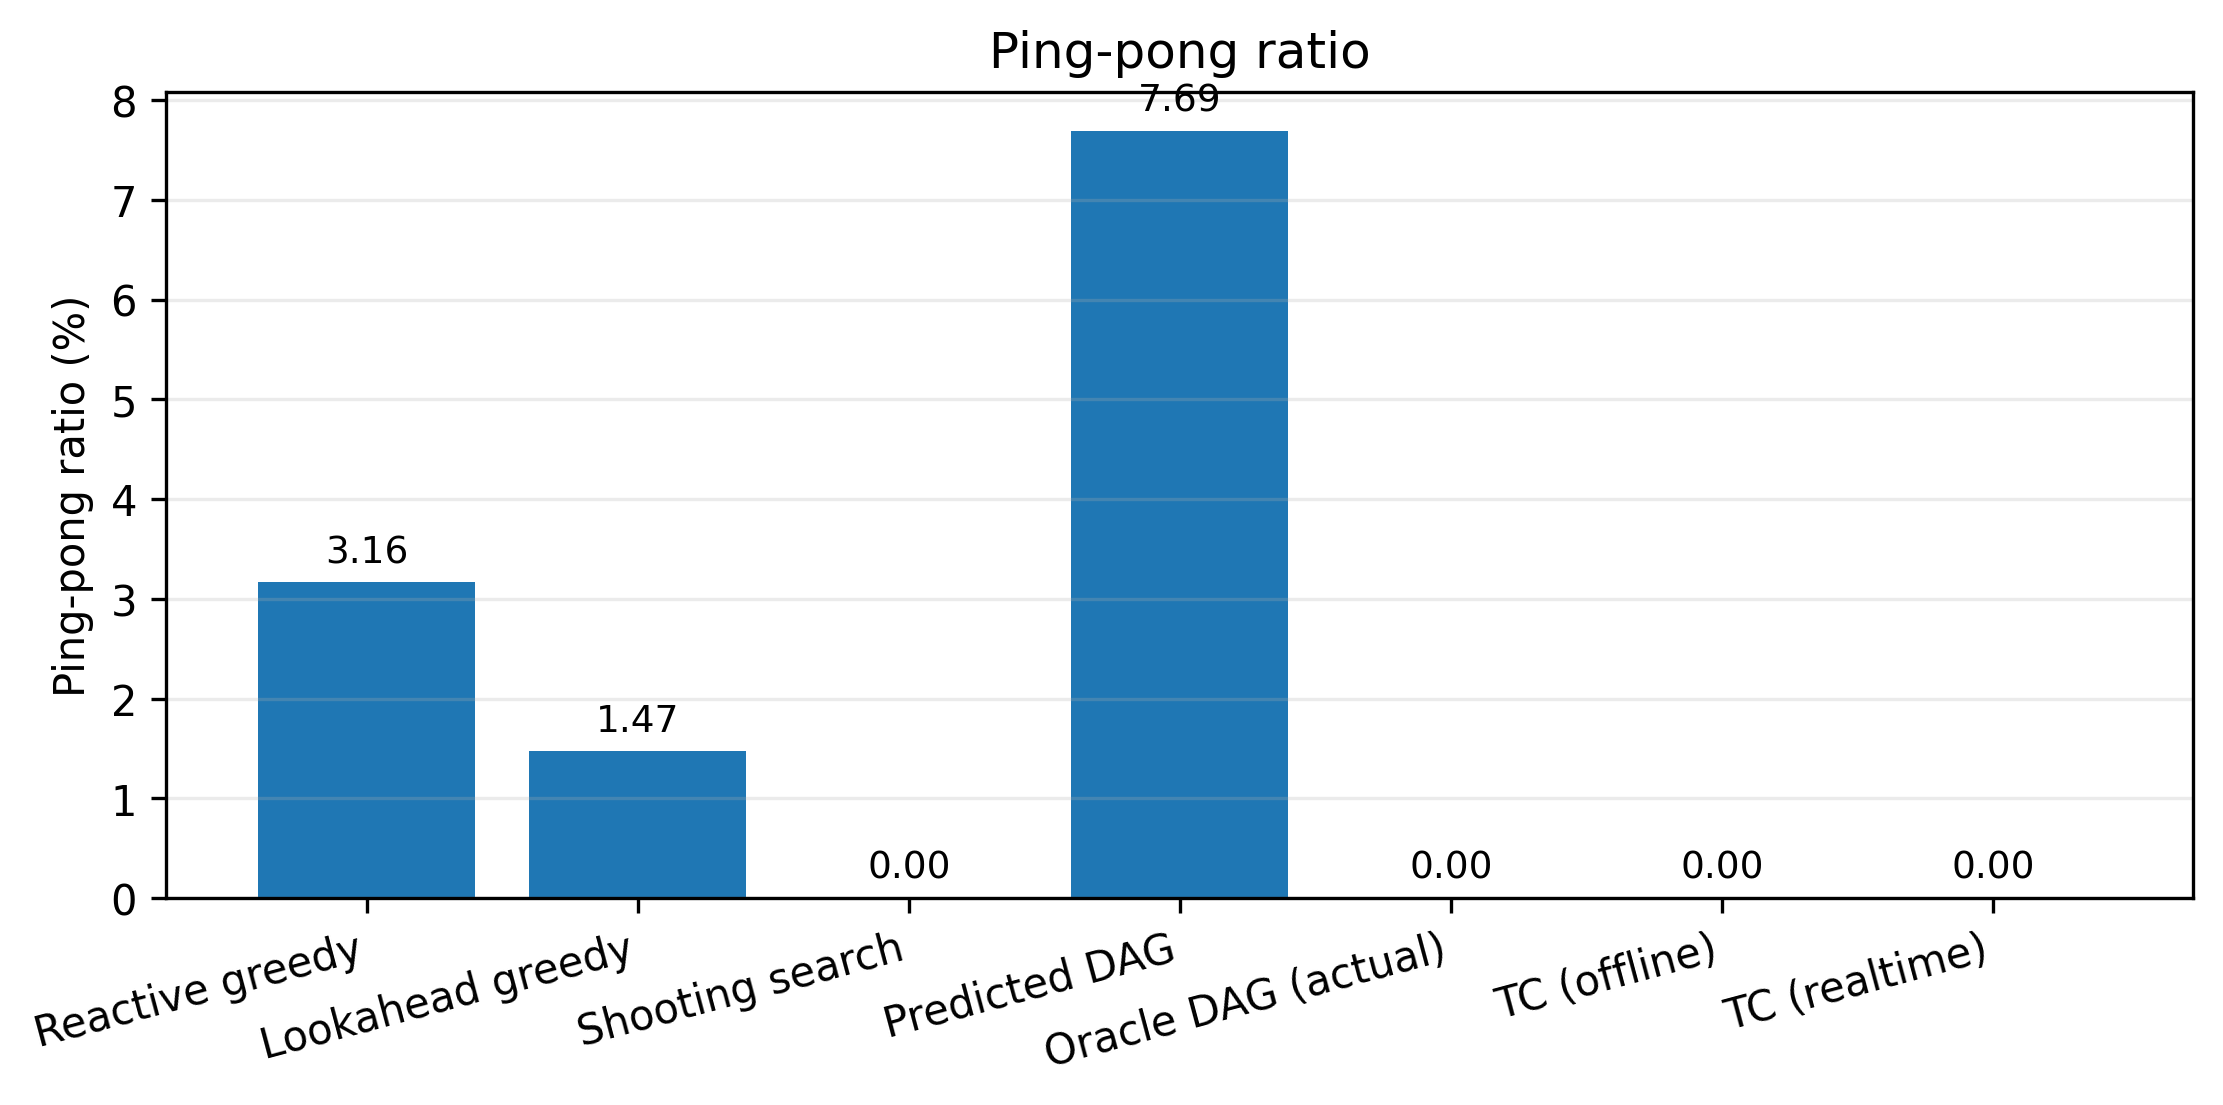
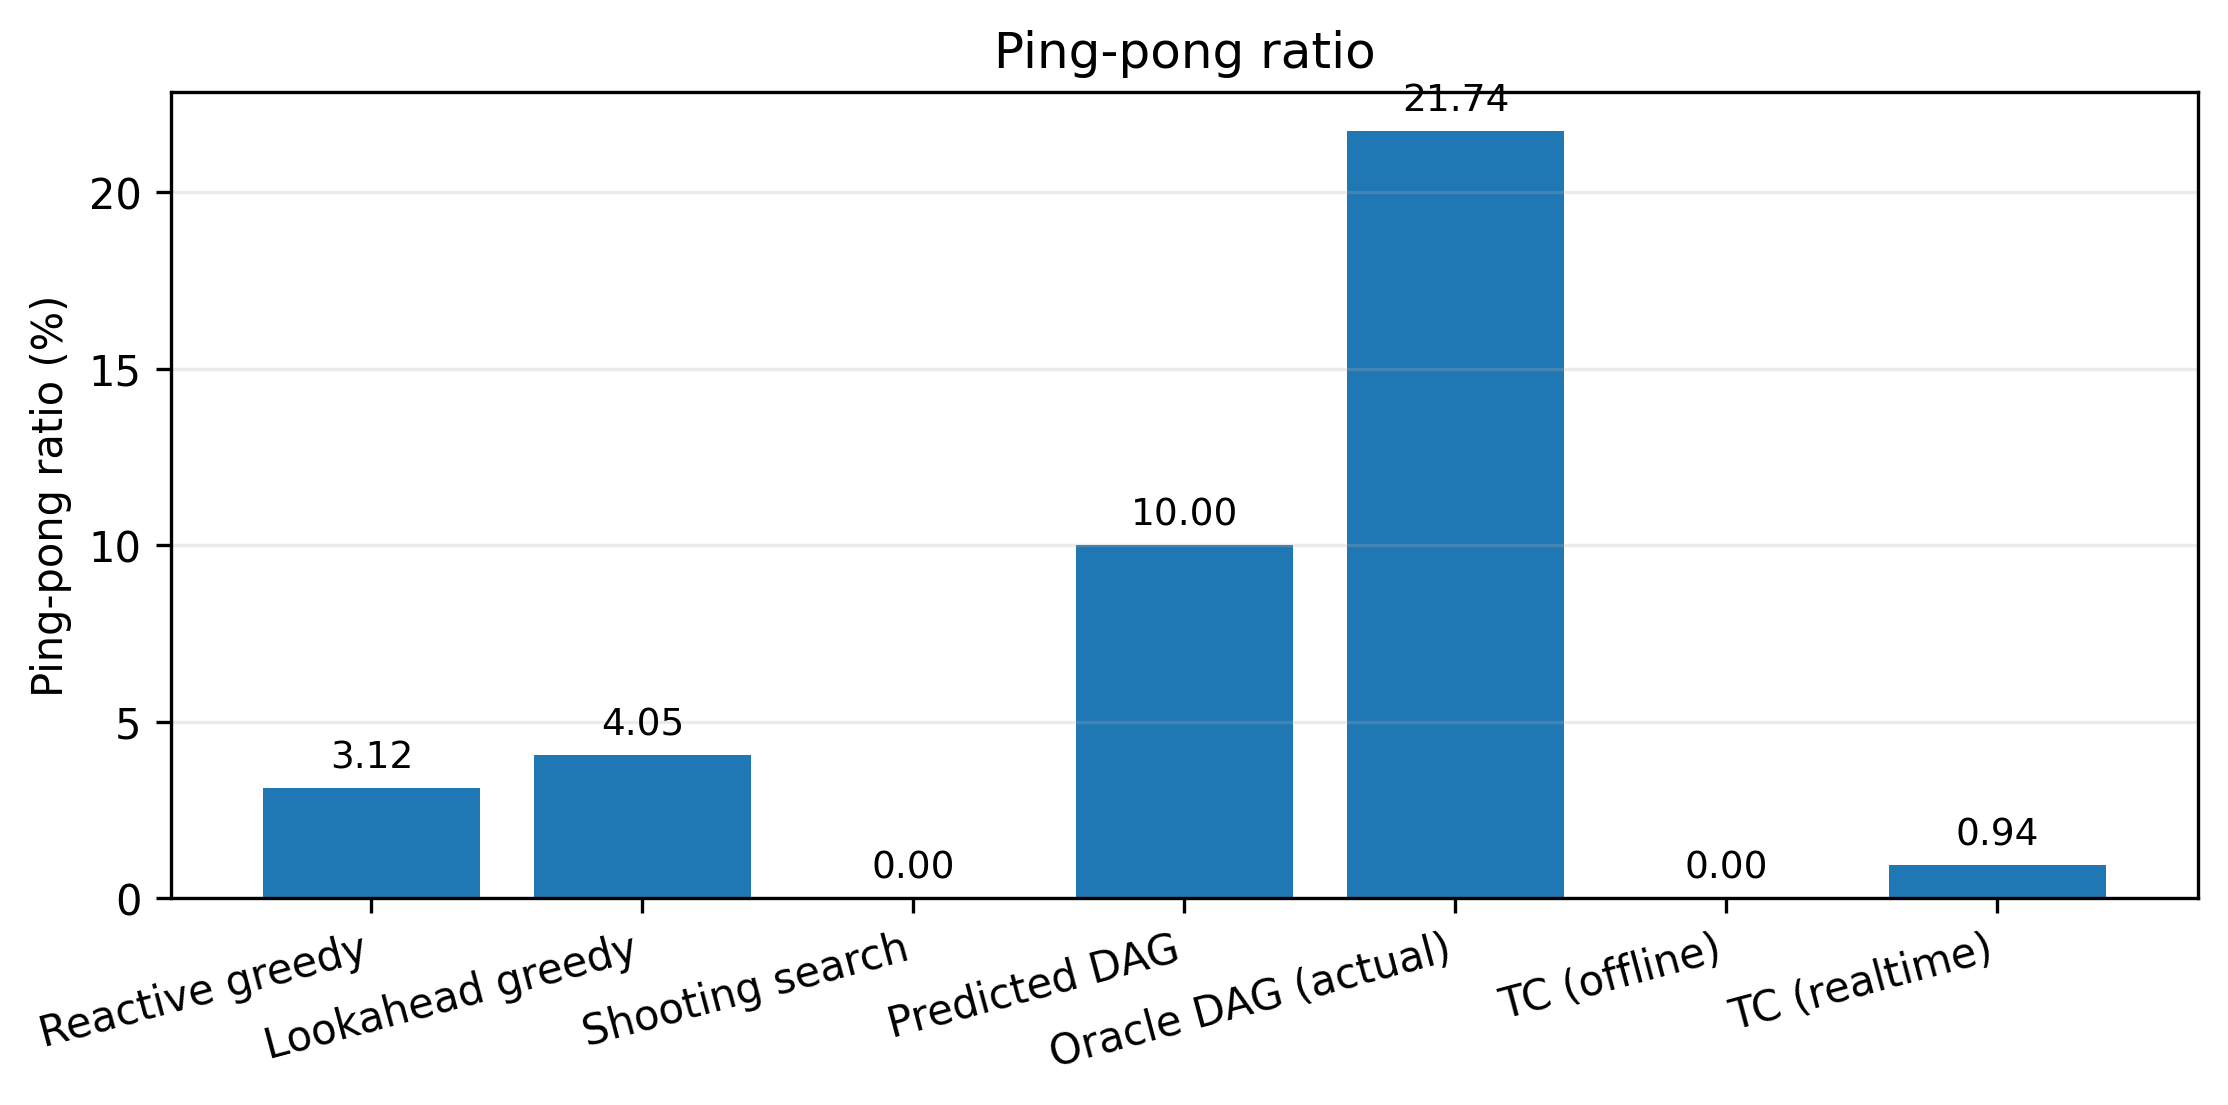
H감소

diff --git a/paper_pkg/tc_train_eval.py b/paper_pkg/tc_train_eval.py
@@ -94,7 +94,7 @@ class TrainEvalRealtimeConfig:
     alpha_oracle_loss: float = 0.3
     beta_pred_action_loss: float = 1.0
     rollout_steps: int = 1
-    rollout_loss_weight: float = 0.0
+    rollout_loss_weight: float = 0.2
     train_use_history_augmentation: bool = True
     train_aug_flip_prob: float = 0.02
     train_aug_dropout_prob: float = 0.06
@@ -598,39 +598,139 @@ def _soft_expected_action_loss(y_curr: torch.Tensor, future_A_true: np.ndarray, 
 
 def _mini_rollout_penalty(transformer, online_consistency, A_in: np.ndarray, A_target: np.ndarray, U_target: np.ndarray,
                           t_start: int, current_node: int, prev_node: int, cfg_te: TrainEvalRealtimeConfig, device: torch.device) -> torch.Tensor:
+    """
+    RT-corrected plan과 semantics를 맞춘 rollout 시뮬레이터.
+    - pending 예약 → 도래 시 실행 (rt_enable_pending)
+    - reliability EMA (RT 플래너와 동일한 공식)로 가중된 fallback 점수
+    - dwell + hysteresis + ping-pong extra hysteresis guardrail
+    - 현재 연결 실패 시 pending 조기 실행 → 없으면 reliability-aware greedy fallback
+    gradient는 y_curr → _soft_expected_action_loss 경로로만 흐름; 상태전이는 numpy/int.
+    """
     L, H = cfg_te.L, cfg_te.H
     K = max(1, int(getattr(cfg_te, 'rollout_steps', 4)))
+    N = A_target.shape[1]
+    use_pending   = bool(getattr(cfg_te, 'rt_enable_pending', True))
+    min_dwell     = int(getattr(cfg_te, 'rt_min_dwell', 3))
+    hyst_ratio    = float(getattr(cfg_te, 'rt_hysteresis_ratio', 0.08))
+    pp_window     = int(getattr(cfg_te, 'rt_pingpong_window', 4))
+    pp_extra_hyst = float(getattr(cfg_te, 'rt_pingpong_extra_hysteresis_ratio', 0.04))
+    rel_alpha     = float(getattr(cfg_te, 'rt_reliability_alpha', 0.90))
+    rel_fp_pen    = float(getattr(cfg_te, 'rt_fp_extra_penalty', 0.90))
+
     total = torch.tensor(0.0, device=device)
-    sim_current = int(current_node)
-    sim_prev = int(prev_node)
+    sim_current      = int(current_node)
+    sim_prev         = int(prev_node)      # t-1 노드 (ping-pong 감지용)
+    sim_prev2        = -1                  # t-2 노드 (ping-pong 감지용)
+    sim_last_switch  = -10**9
+    sim_pend_node    = -1
+    sim_pend_exec_t  = -1
+
+    # reliability 초기값: 1.0 (RT 플래너와 동일)
+    sim_reliability = np.ones(N, dtype=np.float32)
+
+    def _rel_score(t_: int, n_: int) -> float:
+        return float(U_target[t_, n_] * sim_reliability[n_])
+
     sim_hist = np.array(A_in[max(0, t_start - L):t_start, :], copy=True)
     if sim_hist.shape[0] < L:
-        pad = np.zeros((L - sim_hist.shape[0], A_in.shape[1]), dtype=np.float32)
+        pad = np.zeros((L - sim_hist.shape[0], N), dtype=np.float32)
         sim_hist = np.vstack([pad, sim_hist])
+
     for offs in range(K):
         t = t_start + offs
         if t >= A_target.shape[0] - H:
             break
+
         hist = _augment_history_matrix(sim_hist, SimpleNamespace(phase=getattr(SimpleNamespace(), 'phase', None)), t, cfg_te)
         state_tensor = torch.tensor(hist, dtype=torch.float32, device=device).unsqueeze(0)
         future_pred = transformer(state_tensor)
-        avail_flat = future_pred.view(1, -1).detach()
+        avail_flat  = future_pred.view(1, -1).detach()
         u_slice = U_target[t:t+H, :] if t + H <= U_target.shape[0] else np.pad(
             U_target[t:, :], ((0, t + H - U_target.shape[0]), (0, 0))
         )
-        condition = _build_consistency_condition(
-            avail_flat, u_slice, sim_current, sim_prev, A_target.shape[1], device
-        )
+        condition = _build_consistency_condition(avail_flat, u_slice, sim_current, sim_prev, N, device)
         y_noisy = torch.randn(1, 2, device=device)
-        y_curr = online_consistency(y_noisy, condition, torch.tensor([[1.0]], device=device))
-        total = total + _soft_expected_action_loss(y_curr, A_target[t:t+H, :], U_target[t:t+H, :], sim_current, sim_prev, cfg_te)
+        y_curr  = online_consistency(y_noisy, condition, torch.tensor([[1.0]], device=device))
+        total   = total + _soft_expected_action_loss(y_curr, A_target[t:t+H, :], U_target[t:t+H, :], sim_current, sim_prev, cfg_te)
+
         pred_i = int(torch.clamp((y_curr[0, 0] * (H - 1)).round(), 0, H - 1).item())
-        pred_n = int(torch.clamp((y_curr[0, 1] * (A_target.shape[1] - 1)).round(), 0, A_target.shape[1] - 1).item())
-        if pred_i <= int(getattr(cfg_te, 'rt_switch_time_offset_max', 1)) and A_target[t, pred_n] == 1:
-            sim_prev, sim_current = sim_current, pred_n
+        pred_n = int(torch.clamp((y_curr[0, 1] * (N - 1)).round(), 0, N - 1).item())
+
+        # ---- 상태 전이: RT-corrected 플래너 semantics ----
+        if use_pending:
+            # (1) pending 갱신: 더 이른 예약이면 교체
+            new_exec_t = t + pred_i
+            if sim_pend_exec_t == -1 or new_exec_t <= sim_pend_exec_t:
+                sim_pend_node   = pred_n
+                sim_pend_exec_t = new_exec_t
+
+            # (2) pending 도래 시 실행 (reliability-aware fallback 포함)
+            candidate = sim_current
+            if sim_pend_exec_t != -1 and t >= sim_pend_exec_t:
+                pn = sim_pend_node
+                sim_pend_node   = -1
+                sim_pend_exec_t = -1
+                if 0 <= pn < N and A_target[t, pn] == 1:
+                    candidate = pn
+                else:
+                    avail_now = np.where(A_target[t] == 1)[0]
+                    if len(avail_now) > 0:
+                        candidate = int(avail_now[np.argmax(
+                            U_target[t, avail_now] * sim_reliability[avail_now]
+                        )])
+        else:
+            k = int(getattr(cfg_te, 'rt_switch_time_offset_max', 1))
+            candidate = pred_n if (pred_i <= k and 0 <= pred_n < N and A_target[t, pred_n] == 1) else sim_current
+
+        # (3) dwell + hysteresis + ping-pong extra hysteresis guardrail
+        cur_valid = (sim_current != -1 and 0 <= sim_current < N and A_target[t, sim_current] == 1)
+        if candidate != sim_current and candidate != -1 and 0 <= candidate < N and A_target[t, candidate] == 1:
+            if (t - sim_last_switch) >= min_dwell:
+                s_cur = _rel_score(t, sim_current) if cur_valid else -1e9
+                s_new = _rel_score(t, candidate)
+                required = hyst_ratio
+                # ping-pong(A->B->A) 감지: candidate가 t-2 노드이고 최근 스위치 직후면 추가 hysteresis
+                is_pp = (
+                    candidate == sim_prev2
+                    and sim_prev2 != -1
+                    and sim_prev == sim_current
+                    and (t - sim_last_switch) <= pp_window
+                )
+                if is_pp:
+                    required += pp_extra_hyst
+                if not cur_valid or s_new >= s_cur * (1.0 + required):
+                    sim_prev2       = sim_prev
+                    sim_prev        = sim_current
+                    sim_current     = candidate
+                    sim_last_switch = t
+
+        # (4) 현재 연결 실패 처리
         if sim_current != -1 and A_target[t, sim_current] == 0:
-            sim_prev, sim_current = sim_current, -1
+            if use_pending and sim_pend_exec_t != -1 and 0 <= sim_pend_node < N and A_target[t, sim_pend_node] == 1:
+                sim_prev2       = sim_prev
+                sim_prev        = sim_current
+                sim_current     = sim_pend_node
+                sim_pend_node   = -1
+                sim_pend_exec_t = -1
+                sim_last_switch = t
+            else:
+                # reliability-aware greedy fallback
+                avail_now = np.where(A_target[t] == 1)[0]
+                sim_prev2   = sim_prev
+                sim_prev    = sim_current
+                sim_current = int(avail_now[np.argmax(U_target[t, avail_now] * sim_reliability[avail_now])]) if len(avail_now) > 0 else -1
+                sim_last_switch = t
+
+        # (5) reliability EMA 업데이트 (RT 플래너와 동일한 공식)
+        # rollout은 A_target을 "미래 정답"으로 쓰므로 predicted와 actual 모두 A_target으로 근사
+        match = np.ones(N, dtype=np.float32)   # A_target 기준 self-consistent → match=1 기본
+        fp_mask = (A_in[t] == 1) & (A_target[t] == 0) if t < A_in.shape[0] else np.zeros(N, dtype=bool)
+        sim_reliability = rel_alpha * sim_reliability + (1.0 - rel_alpha) * match
+        sim_reliability[fp_mask] *= rel_fp_pen
+        sim_reliability = np.clip(sim_reliability, 0.05, 1.0)
+
         sim_hist = np.vstack([sim_hist[1:], A_in[t:t+1, :]])
+
     return total / float(K)
 
 

diff --git a/paper_pkg/eval.py b/paper_pkg/eval.py
@@ -61,6 +61,9 @@ def load_models(weights: str, exp_cfg: ExperimentConfig, outdir: Path):
     cfg_te.exp_cfg = exp_cfg
     cfg_te.results_dir = str(outdir)
     cfg_te.weight_path = weights
+    # L, H를 cfg_te에도 반영해야 plan builder들이 올바른 H로 condition 벡터를 만든다
+    cfg_te.L = L
+    cfg_te.H = H
     transformer = tc.OnlineTransformerPredictor(num_nodes=N, L=L, H=H).to(device)
     consistency = tc.OnlineConsistencyGenerator(num_nodes=N, H=H).to(device)
     transformer.load_state_dict(ckpt["transformer_state_dict"])
@@ -79,6 +82,7 @@ def main():
     ap.add_argument("--max_sats", type=int, default=None)
     ap.add_argument("--save_timelines", action="store_true")
     ap.add_argument("--rt_debug", action="store_true", help="print RTCorrected debug counters")
+    ap.add_argument("--phase_breakdown", action="store_true")
     args = ap.parse_args()
 
     preset = PRESETS[args.preset]
@@ -114,12 +118,26 @@ def main():
         print("ℹ baselines only (no TC weights)")
 
     rows: List[Dict[str, Any]] = []
+    phase_rows: List[Dict[str, Any]] = []
     t0 = time.time()
     first_seed = int(args.seeds[0])
 
     for seed in args.seeds:
         actual = build_env(exp_cfg, seed=seed, predicted_view=False)
         pred = build_env(exp_cfg, seed=seed, predicted_view=True)
+
+        if args.phase_breakdown:
+            phase_arr = getattr(actual, "phase", None)
+            if phase_arr is not None:
+                unique_ph = np.unique(phase_arr)
+                for ph in unique_ph:
+                    mask = (phase_arr == ph)
+                    phase_rows.append({
+                        "seed": seed,
+                        "phase": str(ph),
+                        "slots": int(mask.sum()),
+                        "mean_visible_nodes": float(np.asarray(actual.A_final)[mask].sum(axis=1).mean()) if mask.any() else 0.0,
+                    })
 
         A_act = np.asarray(actual.A_final); U_act = np.asarray(actual.utility); L_act = np.asarray(actual.latency_ms)
         A_pred = np.asarray(pred.A_final); U_pred = np.asarray(pred.utility); L_pred = np.asarray(pred.latency_ms)
@@ -167,6 +185,10 @@ def main():
     df_summary = summarize_runs(df_runs)
     out_summary = _safe_write_csv(df_summary, outdir / "exp_paper_summary.csv")
     print(f"[OK] saved summary: {out_summary.resolve()}")
+    if args.phase_breakdown and len(phase_rows) > 0:
+        df_phase = pd.DataFrame(phase_rows)
+        out_phase = _safe_write_csv(df_phase, outdir / "exp_paper_phase_breakdown.csv")
+        print(f"[OK] saved phase breakdown: {out_phase.resolve()}")
     print(f"Elapsed: {time.time()-t0:.2f}s")
 
 if __name__ == "__main__":

diff --git a/paper_pkg/train.py b/paper_pkg/train.py
@@ -39,8 +39,10 @@ def main():
                     help="oracle point-regression loss weight (default 0.3)")
     ap.add_argument("--beta_pred_action_loss",   type=float, default=1.0,
                     help="expected-reward / soft-action loss weight (default 1.0)")
-    ap.add_argument("--rollout_steps",           type=int,   default=1)
-    ap.add_argument("--rollout_loss_weight",     type=float, default=0.0)
+    ap.add_argument("--rollout_steps",              type=int,   default=1)
+    ap.add_argument("--rollout_loss_weight",        type=float, default=0.0)
+    ap.add_argument("--reward_time_offset_penalty", type=float, default=None,
+                    help="offset 패널티 강도 (default: cfg 기본값 0.02). 올리면 모델이 낮은 offset 선호")
 
     # --- RT guardrail overrides (preset 값 위에 덮어씀) ---
     ap.add_argument("--rt_min_dwell",                     type=int,   default=None,
@@ -90,6 +92,8 @@ def main():
     cfg_te.beta_pred_action_loss = float(args.beta_pred_action_loss)
     cfg_te.rollout_steps = int(args.rollout_steps)
     cfg_te.rollout_loss_weight = float(args.rollout_loss_weight)
+    if args.reward_time_offset_penalty is not None:
+        cfg_te.reward_time_offset_penalty = float(args.reward_time_offset_penalty)
     cfg_te.train_use_history_augmentation = not bool(args.disable_history_augmentation)
     cfg_te.train_aug_flip_prob = float(args.train_aug_flip_prob)
     cfg_te.train_aug_dropout_prob = float(args.train_aug_dropout_prob)
@@ -142,6 +146,7 @@ def main():
         "beta_pred_action_loss": cfg_te.beta_pred_action_loss,
         "rollout_steps": cfg_te.rollout_steps,
         "rollout_loss_weight": cfg_te.rollout_loss_weight,
+        "reward_time_offset_penalty": cfg_te.reward_time_offset_penalty,
         "train_use_history_augmentation": cfg_te.train_use_history_augmentation,
         "train_aug_flip_prob": cfg_te.train_aug_flip_prob,
         "train_aug_dropout_prob": cfg_te.train_aug_dropout_prob,
